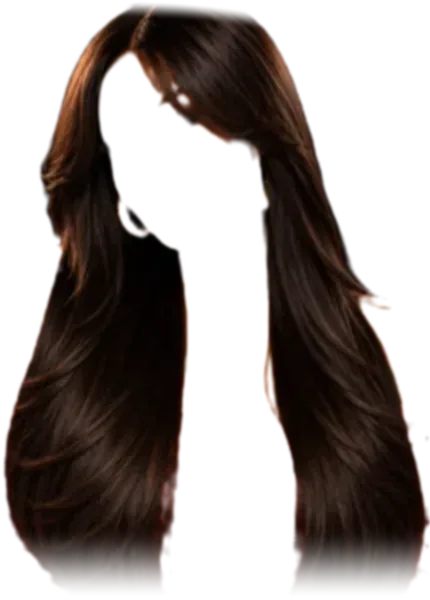
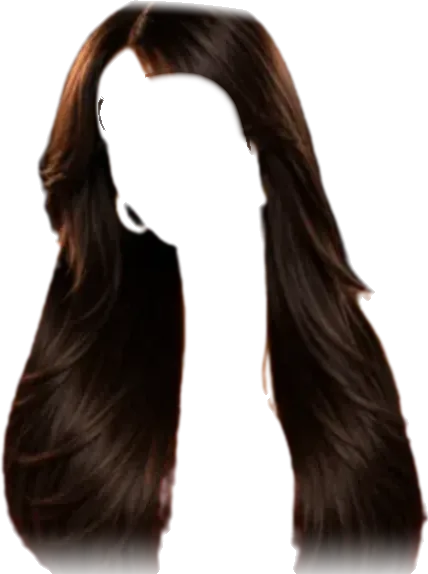
Try-on wigs contour to her head: piecewise-affine mesh warp on the 36-point face outline (hairline lands on her hairline, crown hugs the skull, sides hug temples and cheeks, follows roll and turn), gaps between wig and face filled with the wig's own hair, feathered lace-front edge, stray brow and ed

diff --git a/public/tryon.js b/public/tryon.js
@@ -28,7 +28,7 @@ const BROW = [['#141414', 'Soft black'], ['#3b2016', 'Dark brown'], ['#6b4030', 
 const BLUSH = [['#f4ae86', 'Peach'], ['#f07c5f', 'Coral'], ['#d9798a', 'Rose'], ['#8e2f5a', 'Berry'], ['#c0603d', 'Terracotta'], ['#a8432a', 'Brick']];
 const SHADOW = [['#a8743a', 'Bronze'], ['#d9aa4c', 'Gold'], ['#b8693a', 'Copper'], ['#6e2f55', 'Plum'], ['#8d7b6d', 'Taupe'], ['#1f8a5b', 'Emerald']];
 // Hair-only cutouts made from MIRRR's Wig Match portraits; the model's outer eye corners, forehead and chin in cutout pixels.
-export const WIGS = [{"id":"blunt_lob","name":"Blunt Lob (Long Bob)","forehead":[219.9,130.5],"chin":[226.1,435.5],"right":[136.6,227.9],"left":[307.9,224.3]},{"id":"silk_press_natural","name":"Silk Press (Natural Hair)","forehead":[176.4,134.9],"chin":[199.3,392.7],"right":[122.7,220],"left":[266.8,212]},{"id":"bone_straight_long","name":"Bone Straight (Long)","forehead":[104,107.1],"chin":[166.4,284.1],"right":[89.9,177],"left":[179.8,143]},{"id":"curtain_bang_layers","name":"Curtain-Bang Silk Layers","forehead":[126.1,86.6],"chin":[178.5,244.9],"right":[113.3,150.4],"left":[191.6,121.3]},{"id":"loose_deep_wave","name":"Loose Deep Wave","forehead":[136,90.6],"chin":[182.8,240.1],"right":[123.1,148.2],"left":[196.4,123.6]},{"id":"water_wave","name":"Water Wave","forehead":[165.9,88.2],"chin":[210.5,238.2],"right":[152.9,146.8],"left":[225.8,121]},{"id":"highlighted_balayage","name":"Balayage / Highlighted","forehead":[227.6,70.6],"chin":[175.1,229.9],"right":[175.5,112.6],"left":[263,136]},{"id":"kinky_coily_afro","name":"Kinky Coily Afro","forehead":[230,248.4],"chin":[244.3,519.5],"right":[159.4,339.1],"left":[315.3,331.1]},{"id":"big_chop_fro","name":"Big Chop Fro","forehead":[204.4,141.5],"chin":[209.6,428.9],"right":[116.3,238.1],"left":[284.9,233.1]},{"id":"twist_out_natural","name":"Twist-Out Natural","forehead":[163.8,142],"chin":[217,387.4],"right":[124.5,234.5],"left":[257.9,205.3]},{"id":"butterfly_locs","name":"Butterfly Locs","forehead":[186.2,107.6],"chin":[196.6,347.4],"right":[134,190.9],"left":[265.7,181.2]},{"id":"faux_locs","name":"Faux Locs (Long)","forehead":[226.7,87.4],"chin":[233.4,300.8],"right":[175.5,161.9],"left":[295.3,154.5]},{"id":"sister_locs","name":"Sisterlocks / Micro Locs","forehead":[156.2,141.2],"chin":[236.8,357],"right":[138.2,227.2],"left":[251.8,188]},{"id":"senegalese_twists","name":"Senegalese Twists","forehead":[208.1,97.5],"chin":[215.5,343.1],"right":[150,180],"left":[286.7,176.2]},{"id":"passion_twists","name":"Passion Twists","forehead":[164.1,101.6],"chin":[215.4,253.2],"right":[152.4,161.8],"left":[226.9,133]},{"id":"jumbo_box_braids","name":"Jumbo Box Braids","forehead":[167,121.6],"chin":[229.8,326.9],"right":[148.5,201.7],"left":[248.8,164.6]},{"id":"fulani_braids","name":"Fulani Braids","forehead":[124.4,127.8],"chin":[198,332],"right":[105.4,207.9],"left":[214,169.8]},{"id":"goddess_braids","name":"Goddess Braids","forehead":[91.9,125.4],"chin":[162.6,328.8],"right":[74.4,205.8],"left":[179.3,166.4]}];
+export const WIGS = [{"id":"blunt_lob","name":"Blunt Lob (Long Bob)","forehead":[217.9,126.5],"chin":[224.1,431.5],"right":[134.6,223.9],"left":[305.9,220.3],"oval":[[217.9,126.5],[251.8,126.7],[280.0,130.9],[305.0,139.9],[321.5,154.0],[332.3,173.2],[338.6,195.3],[341.8,223.0],[342.5,249.3],[341.8,276.8],[338.4,306.1],[331.7,337.5],[321.5,363.4],[308.8,382.6],[292.0,399.5],[278.0,411.0],[263.2,421.2],[246.1,428.9],[224.2,431.6],[202.3,429.8],[184.9,422.9],[169.5,413.4],[154.6,402.8],[136.4,386.8],[122.1,368.4],[109.8,343.3],[100.8,312.2],[95.1,283.0],[92.5,255.8],[91.5,229.7],[94.0,202.2],[99.9,179.4],[111.0,159.3],[128.3,143.8],[154.3,133.3],[183.3,128.1]]},{"id":"silk_press_natural","name":"Silk Press (Natural Hair)","forehead":[173.4,132.9],"chin":[196.3,390.7],"right":[119.7,218.0],"left":[263.8,210.0],"oval":[[173.4,132.9],[201.0,130.2],[228.4,130.1],[255.8,133.3],[279.0,142.5],[298.6,158.4],[312.0,177.9],[320.8,202.6],[324.3,226.4],[325.7,251.4],[323.8,278.0],[316.5,306.3],[303.1,330.0],[286.5,347.9],[266.3,363.3],[249.9,373.5],[232.9,382.3],[215.4,388.9],[196.3,390.7],[181.1,388.4],[171.1,381.7],[163.8,373.0],[157.0,363.5],[147.9,349.8],[141.1,333.8],[133.6,312.7],[125.8,287.3],[120.1,263.4],[117.3,240.8],[113.5,219.2],[108.8,196.4],[108.5,177.2],[112.2,160.8],[118.7,149.7],[130.2,141.9],[148.9,136.5]]},{"id":"bone_straight_long","name":"Bone Straight (Long)","forehead":[102.0,102.1],"chin":[164.4,279.1],"right":[87.9,172.0],"left":[177.8,138.0],"oval":[[102.0,102.1],[120.6,93.9],[140.4,87.4],[162.8,83.8],[183.1,85.9],[201.4,93.3],[215.9,104.4],[228.3,120.0],[236.3,136.1],[242.8,153.7],[247.4,173.5],[248.0,196.1],[242.2,216.2],[231.5,232.3],[217.1,246.9],[204.9,257.0],[192.0,266.2],[178.8,274.1],[164.5,279.1],[153.9,279.9],[147.1,277.0],[142.4,272.6],[138.1,267.4],[132.1,259.5],[127.3,249.2],[120.7,235.2],[112.2,218.5],[104.7,202.9],[98.8,187.8],[91.4,173.9],[82.1,160.1],[76.0,147.3],[73.2,134.8],[73.4,125.0],[77.7,116.8],[86.9,109.7]]},{"id":"curtain_bang_layers","name":"Curtain-Bang Silk Layers","forehead":[124.1,82.6],"chin":[176.5,240.9],"right":[111.3,146.4],"left":[189.6,117.3],"oval":[[124.1,82.6],[141.5,75.5],[159.8,70.3],[181.0,67.9],[199.6,70.5],[216.1,77.5],[228.3,87.4],[238.3,101.5],[244.0,116.4],[248.3,132.5],[250.8,150.4],[250.1,170.6],[244.2,188.3],[234.2,202.2],[221.5,214.8],[210.9,223.1],[199.8,230.5],[188.7,236.9],[176.5,240.8],[167.2,241.3],[161.3,238.7],[157.3,234.9],[153.8,230.6],[148.8,224.1],[145.1,215.4],[139.9,203.1],[133.1,188.0],[126.6,173.8],[121.4,160.1],[114.9,147.4],[106.4,135.0],[100.7,123.7],[98.0,112.4],[98.5,103.0],[102.8,95.1],[110.9,88.9]]},{"id":"loose_deep_wave","name":"Loose Deep Wave","forehead":[134.0,85.6],"chin":[180.8,235.1],"right":[121.1,143.2],"left":[194.4,118.6],"oval":[[134.0,85.6],[150.2,79.1],[167.2,74.5],[186.9,72.6],[203.7,75.6],[218.6,82.7],[229.9,92.5],[239.5,105.9],[245.5,119.6],[250.1,134.4],[253.0,151.0],[252.4,169.7],[246.8,186.3],[237.3,199.2],[224.9,210.8],[214.5,218.6],[203.7,225.6],[192.6,231.5],[180.8,235.0],[172.3,235.3],[166.8,232.8],[163.1,229.2],[160.0,225.1],[155.7,218.8],[152.7,210.5],[148.4,199.0],[142.3,184.8],[136.7,171.5],[132.0,158.7],[125.9,146.9],[117.9,135.3],[112.2,124.5],[109.3,113.8],[109.5,104.8],[113.6,97.3],[121.3,91.5]]},{"id":"water_wave","name":"Water Wave","forehead":[163.9,84.2],"chin":[208.5,234.2],"right":[150.9,142.8],"left":[223.8,117.0],"oval":[[163.9,84.2],[180.4,77.5],[197.9,72.7],[218.4,70.9],[236.2,74.1],[251.5,81.3],[262.8,90.9],[272.0,104.3],[277.2,118.1],[281.0,133.0],[283.3,149.5],[282.4,168.2],[276.5,184.7],[266.7,197.7],[254.1,209.3],[243.5,217.3],[232.3,224.5],[220.9,230.6],[208.6,234.3],[199.5,234.5],[193.8,231.8],[190.1,228.0],[187.0,223.8],[183.2,217.3],[180.9,208.8],[177.4,197.1],[172.0,183.0],[166.7,169.9],[162.3,157.4],[156.2,145.9],[148.2,134.5],[142.6,124.0],[139.6,113.4],[139.9,104.2],[143.9,96.3],[151.4,90.3]]},{"id":"highlighted_balayage","name":"Balayage / Highlighted","forehead":[227.6,68.6],"chin":[175.1,227.9],"right":[175.5,110.6],"left":[263.0,134.0],"oval":[[227.6,68.6],[246.2,73.0],[263.8,79.7],[281.2,90.6],[293.4,104.6],[301.4,121.0],[304.8,137.5],[304.5,156.0],[300.7,172.0],[295.2,187.5],[286.9,203.3],[274.8,218.9],[260.4,229.1],[245.5,233.8],[229.0,235.9],[215.9,235.9],[202.5,234.5],[188.9,232.2],[175.1,227.9],[164.9,223.2],[159.3,218.5],[155.8,214.3],[153.1,209.7],[151.4,202.9],[152.7,194.9],[155.5,182.4],[158.7,165.9],[161.7,150.3],[165.5,135.9],[168.5,121.2],[171.6,105.2],[175.6,91.6],[181.8,79.7],[189.8,71.4],[200.0,66.9],[212.0,66.3]]},{"id":"kinky_coily_afro","name":"Kinky Coily Afro","forehead":[221.0,246.4],"chin":[235.3,517.5],"right":[150.4,337.1],"left":[306.3,329.1],"oval":[[221.0,246.4],[253.5,245.5],[281.5,248.3],[307.8,256.5],[325.0,270.4],[336.3,289.0],[343.1,309.2],[347.1,333.7],[348.3,357.0],[348.5,381.1],[346.3,406.8],[340.6,434.1],[331.0,456.4],[318.9,472.6],[302.9,487.2],[289.3,497.5],[274.4,507.0],[257.0,514.6],[235.2,517.5],[214.6,515.7],[199.3,509.0],[186.6,500.3],[175.0,490.9],[161.2,477.7],[150.9,462.7],[141.7,441.8],[134.2,415.6],[129.5,390.9],[127.1,367.6],[124.6,344.9],[123.6,320.7],[125.7,300.1],[131.7,280.9],[143.6,265.8],[164.6,255.0],[189.7,249.2]]},{"id":"big_chop_fro","name":"Big Chop Fro","forehead":[202.4,139.5],"chin":[207.6,426.9],"right":[114.3,236.1],"left":[282.9,231.1],"oval":[[202.4,139.5],[235.2,140.1],[261.4,144.5],[283.1,154.5],[295.6,170.0],[302.0,190.3],[304.2,212.1],[303.0,238.2],[301.3,262.9],[300.0,288.1],[296.7,314.2],[290.2,342.1],[282.5,364.5],[274.0,380.5],[262.8,395.1],[253.2,405.7],[242.4,415.3],[228.0,423.1],[207.7,426.9],[184.3,426.7],[164.7,421.2],[147.0,413.2],[130.5,404.0],[110.7,390.3],[94.0,374.3],[79.4,351.8],[69.3,323.0],[63.6,295.7],[60.8,269.8],[59.3,244.6],[61.8,217.8],[68.5,195.2],[81.9,173.7],[102.6,156.8],[133.5,145.7],[166.0,140.7]]},{"id":"twist_out_natural","name":"Twist-Out Natural","forehead":[161.8,141.0],"chin":[215.0,386.4],"right":[122.5,233.5],"left":[255.9,204.3],"oval":[[161.8,141.0],[190.4,134.4],[218.0,131.5],[247.1,133.1],[270.1,141.5],[288.8,155.8],[301.9,172.8],[311.6,195.0],[316.7,216.8],[320.3,239.9],[321.2,264.9],[317.5,292.2],[308.4,315.9],[295.5,334.6],[278.8,351.6],[264.7,363.5],[249.7,374.0],[233.7,382.4],[215.1,386.4],[199.6,386.0],[188.7,380.6],[180.4,372.9],[172.8,364.4],[162.8,352.5],[154.9,338.8],[145.9,320.4],[135.9,298.0],[128.1,276.8],[122.9,256.4],[116.1,236.9],[108.2,216.4],[104.7,198.4],[105.1,181.1],[109.7,167.3],[120.8,156.2],[137.8,148.0]]},{"id":"butterfly_locs","name":"Butterfly Locs","forehead":[183.2,105.6],"chin":[193.6,345.4],"right":[131.0,188.9],"left":[262.7,179.2],"oval":[[183.2,105.6],[211.5,102.9],[239.0,103.5],[267.9,109.5],[289.4,121.6],[305.3,138.8],[315.0,157.6],[320.5,180.7],[322.0,202.5],[321.7,225.3],[318.7,249.4],[311.0,275.2],[298.0,296.6],[281.9,311.9],[262.6,324.6],[246.8,332.8],[230.0,339.6],[212.6,344.5],[193.6,345.4],[178.5,343.0],[169.1,337.2],[162.9,330.2],[157.4,322.8],[151.1,311.7],[147.7,298.3],[144.2,279.2],[139.6,256.0],[136.2,234.6],[134.9,214.4],[131.6,194.7],[126.4,173.9],[124.5,155.9],[126.4,138.7],[132.1,125.2],[143.5,115.2],[159.8,109.4]]},{"id":"faux_locs","name":"Faux Locs (Long)","forehead":[217.7,85.4],"chin":[224.4,298.8],"right":[166.5,159.9],"left":[286.3,152.5],"oval":[[217.7,85.4],[243.3,83.9],[266.6,85.6],[290.2,92.0],[307.1,103.5],[319.4,119.1],[326.7,135.9],[330.7,156.4],[331.2,175.5],[330.2,195.3],[326.8,216.1],[319.8,238.2],[309.3,256.1],[296.8,268.9],[281.7,279.9],[269.2,287.0],[255.7,293.1],[241.2,297.6],[224.4,298.8],[209.7,297.3],[199.6,292.6],[191.9,286.8],[185.1,280.4],[177.1,270.9],[171.9,259.6],[167.1,243.3],[161.9,222.8],[158.1,203.5],[156.2,185.3],[154.0,167.3],[152.2,147.8],[153.1,131.1],[156.8,115.2],[164.5,102.7],[178.0,93.5],[195.1,88.3]]},{"id":"sister_locs","name":"Sisterlocks / Micro Locs","forehead":[153.2,139.2],"chin":[233.8,355.0],"right":[135.2,225.2],"left":[248.8,186.0],"oval":[[153.2,139.2],[176.9,129.7],[201.3,122.6],[228.8,118.4],[254.0,120.9],[277.2,129.8],[295.2,143.2],[309.5,162.7],[318.0,182.7],[324.9,204.3],[329.3,228.0],[328.9,254.5],[321.6,278.4],[309.5,297.7],[293.6,315.6],[280.2,328.1],[265.9,339.6],[250.9,349.4],[233.8,355.0],[220.0,355.8],[210.5,351.6],[203.6,345.4],[197.1,338.4],[188.0,328.4],[180.7,315.6],[171.4,298.8],[160.1,278.9],[150.8,260.4],[143.6,242.4],[133.9,226.1],[122.1,209.5],[115.1,194.2],[112.0,179.2],[113.0,167.4],[119.8,157.4],[133.1,148.4]]},{"id":"senegalese_twists","name":"Senegalese Twists","forehead":[199.1,95.5],"chin":[206.5,341.1],"right":[141.0,178.0],"left":[277.7,174.2],"oval":[[199.1,95.5],[228.3,94.3],[255.1,96.5],[282.2,103.7],[301.8,116.5],[316.2,134.2],[324.9,153.5],[329.8,177.0],[331.0,199.0],[330.7,221.8],[327.3,246.0],[319.0,271.7],[306.2,292.8],[291.0,308.0],[272.6,320.7],[257.7,328.8],[242.0,335.5],[225.3,340.3],[206.5,341.1],[190.9,338.5],[180.4,332.4],[172.7,324.8],[165.9,316.5],[157.3,304.5],[151.5,290.4],[145.8,271.0],[139.8,247.1],[135.7,225.1],[134.0,204.5],[131.4,184.3],[128.3,162.6],[128.4,143.9],[132.3,126.4],[140.2,113.0],[154.5,103.4],[173.5,98.2]]},{"id":"passion_twists","name":"Passion Twists","forehead":[152.1,99.6],"chin":[203.4,251.2],"right":[140.4,159.8],"left":[214.9,131.0],"oval":[[152.1,99.6],[168.5,92.5],[185.9,87.3],[205.7,84.5],[223.6,86.6],[240.0,92.8],[252.7,102.0],[263.1,115.2],[269.0,129.4],[273.2,145.0],[275.6,162.6],[274.7,182.4],[268.9,199.6],[259.7,213.1],[247.8,225.3],[237.7,233.6],[226.9,241.0],[215.7,247.3],[203.4,251.2],[194.0,251.6],[187.9,248.9],[183.7,244.9],[179.8,240.4],[174.6,233.7],[170.8,225.1],[165.8,213.4],[159.3,199.2],[153.6,185.9],[149.1,173.0],[142.9,161.2],[135.0,149.6],[129.9,138.8],[127.6,128.1],[127.9,119.3],[131.8,112.0],[139.4,105.9]]},{"id":"jumbo_box_braids","name":"Jumbo Box Braids","forehead":[167.0,119.6],"chin":[229.8,324.9],"right":[148.5,199.7],"left":[248.8,162.6],"oval":[[167.0,119.6],[189.2,110.5],[212.6,104.2],[239.9,101.9],[263.8,106.4],[284.7,116.4],[300.3,129.6],[313.3,147.8],[321.0,166.7],[326.7,186.9],[329.9,209.7],[328.5,235.4],[320.2,257.7],[307.0,274.9],[290.5,290.5],[276.6,301.3],[261.9,311.0],[246.6,319.5],[229.8,324.9],[217.2,325.6],[209.2,322.3],[204.1,317.4],[199.6,311.9],[193.8,303.7],[189.7,293.0],[183.7,277.8],[175.2,258.8],[167.6,240.9],[161.7,223.6],[154.2,207.2],[144.7,190.6],[138.0,175.5],[134.4,160.5],[134.6,147.5],[139.8,136.5],[150.0,128.1]]},{"id":"fulani_braids","name":"Fulani Braids","forehead":[121.4,125.8],"chin":[195.0,330.0],"right":[102.4,205.9],"left":[211.0,167.8],"oval":[[121.4,125.8],[143.6,116.5],[166.8,109.2],[192.5,104.7],[216.5,106.7],[238.7,114.8],[256.0,127.4],[270.0,145.7],[278.3,164.8],[284.8,185.5],[289.1,208.6],[288.7,234.5],[281.5,257.5],[269.6,276.1],[253.8,293.1],[240.5,305.0],[226.3,315.7],[211.5,324.6],[195.0,330.0],[182.1,330.8],[173.5,327.2],[167.2,321.7],[161.2,315.3],[153.1,306.1],[146.6,294.1],[138.0,278.0],[127.3,258.9],[118.3,241.0],[111.3,223.8],[102.4,207.9],[91.6,191.9],[85.2,177.0],[82.8,162.8],[83.9,151.9],[90.3,142.8],[102.7,134.5]]},{"id":"goddess_braids","name":"Goddess Braids","forehead":[88.9,123.4],"chin":[159.6,326.8],"right":[71.4,203.8],"left":[176.3,164.4],"oval":[[88.9,123.4],[111.6,113.6],[135.6,106.0],[162.9,101.8],[187.0,104.6],[208.5,113.3],[224.7,125.9],[238.1,143.8],[246.1,162.8],[252.0,183.5],[255.7,206.9],[254.9,233.2],[247.7,256.4],[235.7,274.6],[220.0,291.1],[206.4,302.5],[191.7,312.7],[176.4,321.4],[159.6,326.8],[146.8,327.5],[138.7,324.0],[133.2,318.5],[128.3,312.3],[121.6,303.1],[116.3,291.3],[108.8,275.6],[98.9,256.9],[90.4,239.2],[83.6,222.1],[74.9,206.3],[63.7,190.8],[56.5,176.4],[53.1,162.1],[53.7,150.4],[59.6,140.5],[70.9,132.2]]}];
 
 const $ = id => document.getElementById(id);
 const esc = s => String(s ?? '').replace(/[&<>"']/g, c => ({ '&': '&amp;', '<': '&lt;', '>': '&gt;', '"': '&quot;', "'": '&#39;' }[c]));
@@ -187,11 +187,11 @@ async function useImage(src, okMsg) {
   const k = Math.min(1, 1280 / Math.max(img.naturalWidth, img.naturalHeight));
   const w = Math.round(img.naturalWidth * k), h = Math.round(img.naturalHeight * k);
   sizeTo(w, h);
-  t.photo = img; t.hair = null; t.mirrored = false; $('toCanvas').classList.remove('to-mirror');
-  if (t.choice.wig) await ensureSegmenter('IMAGE');
   wctx.drawImage(img, 0, 0, w, h);
   const r = t.landmarker.detect(work);
+  t.photo = img; t.hair = null; fillKey = ''; t.mirrored = false; $('toCanvas').classList.remove('to-mirror');
   t.landmarks = r.faceLandmarks?.[0] ?? null;
+  if (t.choice.wig) await ensureSegmenter('IMAGE');
   status(t.landmarks ? okMsg : 'No face found in that photo. Try a front-facing photo in good light.');
   $('toSnap').disabled = false;
   drawPhoto();
@@ -283,13 +283,14 @@ function hideOwnHair(L, w, h) {
   // where a painted-over band would read as a bald strip).
   const raw0 = toPixels(L, FACE_OVAL, mw, mh);
   const cx = raw0.reduce((a, p) => a + p[0], 0) / raw0.length, cy = raw0.reduce((a, p) => a + p[1], 0) / raw0.length;
-  const oval = raw0.map(([x, y]) => [cx + (x - cx) * 1.15, cy + (y - cy) * (y < cy ? 1.32 : 1.04)]);
+  // Above the eyes the sides stay tight (her temple hair is replaced; the wig hugs her face there).
+  const oval = raw0.map(([x, y]) => [cx + (x - cx) * (y < cy ? 1.0 : 1.15), cy + (y - cy) * (y < cy ? 1.32 : 1.04)]);
   const faceMask = document.createElement('canvas'); faceMask.width = mw; faceMask.height = mh;
   const fm = faceMask.getContext('2d'); fm.fillStyle = '#fff'; fm.beginPath(); tracePath(fm, oval); fm.fill();
   const fd = fm.getImageData(0, 0, mw, mh).data;
   // Just above the forehead, hair is replaced with her own forehead skin, not the background, so a wig
   // with a higher hairline shows a forehead, not a grey band.
-  fm.clearRect(0, 0, mw, mh); fm.beginPath(); tracePath(fm, raw0.map(([x, y]) => [cx + (x - cx) * 1.08, cy + (y - cy) * (y < cy ? 1.45 : 1)])); fm.fill();
+  fm.clearRect(0, 0, mw, mh); fm.beginPath(); tracePath(fm, raw0.map(([x, y]) => [cx + (x - cx) * (y < cy ? 1.1 : 1.08), cy + (y - cy) * (y < cy ? 1.45 : 1)])); fm.fill();
   const zd = fm.getImageData(0, 0, mw, mh).data;
   const [fx, fy] = toPixels(L, [151], w, h)[0]; const sk = wctx.getImageData(Math.max(0, Math.round(fx) - 4), Math.max(0, Math.round(fy) - 4), 9, 9).data;
   let sr = 0, sg = 0, sb = 0; for (let i = 0; i < sk.length; i += 4) { sr += sk[i]; sg += sk[i + 1]; sb += sk[i + 2]; }
@@ -298,11 +299,24 @@ function hideOwnHair(L, w, h) {
   // Hair strength, grown by three mask pixels so no dark fringe of her own hair is left at the edge.
   const raw = new Float32Array(n);
   for (let i = 0; i < n; i++) raw[i] = Math.max(0, Math.min(1, (hair[i] - 0.08) / 0.22));
+  // Her own hair at the temples, inside her face outline beside the eyes and above them, is replaced
+  // with her skin colour so no strands of it show between the wig's hairline and her face.
+  fm.clearRect(0, 0, mw, mh); fm.beginPath(); tracePath(fm, raw0); fm.fill();
+  const rd = fm.getImageData(0, 0, mw, mh).data;
+  const [e1, e2] = toPixels(L, [33, 263], mw, mh);
+  const ec = [(e1[0] + e2[0]) / 2, (e1[1] + e2[1]) / 2], ed = Math.hypot(e2[0] - e1[0], e2[1] - e1[1]) || 1;
+  const ux = (e2[0] - e1[0]) / ed, uy = (e2[1] - e1[1]) / ed;
   for (let y = 0; y < mh; y++) for (let x = 0; x < mw; x++) {
     let a = 0;
     for (let dy = -3; dy <= 3; dy++) for (let dx = -3; dx <= 3; dx++) { const yy = y + dy, xx = x + dx; if (yy >= 0 && yy < mh && xx >= 0 && xx < mw) { const v = raw[yy * mw + xx]; if (v > a) a = v; } }
-    const i = y * mw + x; a *= 1 - fd[i * 4 + 3] / 255;
-    d[i * 4] = acc[i * 4]; d[i * 4 + 1] = acc[i * 4 + 1]; d[i * 4 + 2] = acc[i * 4 + 2]; d[i * 4 + 3] = Math.round(a * 255);
+    const i = y * mw + x; const f = fd[i * 4 + 3] / 255;
+    let k = 0;
+    if (rd[i * 4 + 3] > 0) {
+      const sx = Math.abs((x - ec[0]) * ux + (y - ec[1]) * uy), ty = (x - ec[0]) * -uy + (y - ec[1]) * ux;
+      if (ty < ed * 0.25) k = (rd[i * 4 + 3] / 255) * Math.max(0, Math.min(1, (sx - ed * 0.56) / (ed * 0.1)));
+    }
+    a *= Math.max(1 - f, k);
+    d[i * 4] = acc[i * 4] + (skin[0] - acc[i * 4]) * k; d[i * 4 + 1] = acc[i * 4 + 1] + (skin[1] - acc[i * 4 + 1]) * k; d[i * 4 + 2] = acc[i * 4 + 2] + (skin[2] - acc[i * 4 + 2]) * k; d[i * 4 + 3] = Math.round(a * 255);
   }
   sctx.putImageData(px, 0, 0);
   fillC.width = w; fillC.height = h;
@@ -584,4 +598,4 @@ document.addEventListener('click', e => {
 });
 if (document.readyState === 'loading') document.addEventListener('DOMContentLoaded', mount); else mount();
 // For the automated check: the current state, never frames.
-window.__mirrrTryon = { state: () => ({ running: t.running, face: !!t.landmarks, fps: t.fps, size: [work.width, work.height], choice: { ...t.choice } }) };
+window.__mirrrTryon = { state: () => ({ running: t.running, face: !!t.landmarks, roll: t.landmarks ? Math.round(headPose(t.landmarks, work.width, work.height).roll * 180 / Math.PI) : null, fps: t.fps, size: [work.width, work.height], choice: { ...t.choice } }) };

diff --git a/public/tryon-geometry.js b/public/tryon-geometry.js
@@ -207,6 +207,31 @@ export function wigAffine(src, dst) {
   return [a, b, c, d, e, f];
 }
 
+/**
+ * A piecewise-affine mesh for the wig: rings scaled about each face outline's centre (inside the
+ * face for the lace-front edge, on the outline, then out through the hair), joined into triangles.
+ * Each triangle maps the wig model's face outline onto hers, so the wig's hairline lands on her
+ * forehead, its sides hug her temples and cheeks, and it follows roll, yaw and pitch, because her
+ * outline already carries them. Returns [{ s: [p, p, p], d: [p, p, p] }].
+ */
+export const WIG_RINGS = [0.86, 1, 1.22, 1.55, 2.1, 3.4];
+export function wigMesh(srcOval, dstOval, rings = WIG_RINGS) {
+  const n = srcOval.length; if (n !== dstOval.length || n < 3) return [];
+  const centre = pts => pts.reduce((a, p) => [a[0] + p[0] / pts.length, a[1] + p[1] / pts.length], [0, 0]);
+  const cs = centre(srcOval), cd = centre(dstOval);
+  const ring = (pts, c, k) => pts.map(p => [c[0] + (p[0] - c[0]) * k, c[1] + (p[1] - c[1]) * k]);
+  const S = rings.map(k => ring(srcOval, cs, k)), D = rings.map(k => ring(dstOval, cd, k));
+  const tris = [];
+  for (let r = 0; r < rings.length - 1; r++) {
+    for (let i = 0; i < n; i++) {
+      const j = (i + 1) % n;
+      tris.push({ s: [S[r][i], S[r][j], S[r + 1][i]], d: [D[r][i], D[r][j], D[r + 1][i]] });
+      tris.push({ s: [S[r][j], S[r + 1][j], S[r + 1][i]], d: [D[r][j], D[r + 1][j], D[r + 1][i]] });
+    }
+  }
+  return tris;
+}
+
 export function applyTransform(m, [x, y]) { return [m[0] * x + m[2] * y + m[4], m[1] * x + m[3] * y + m[5]]; }
 
 // ---- smoothing -----------------------------------------------------------------------------------
